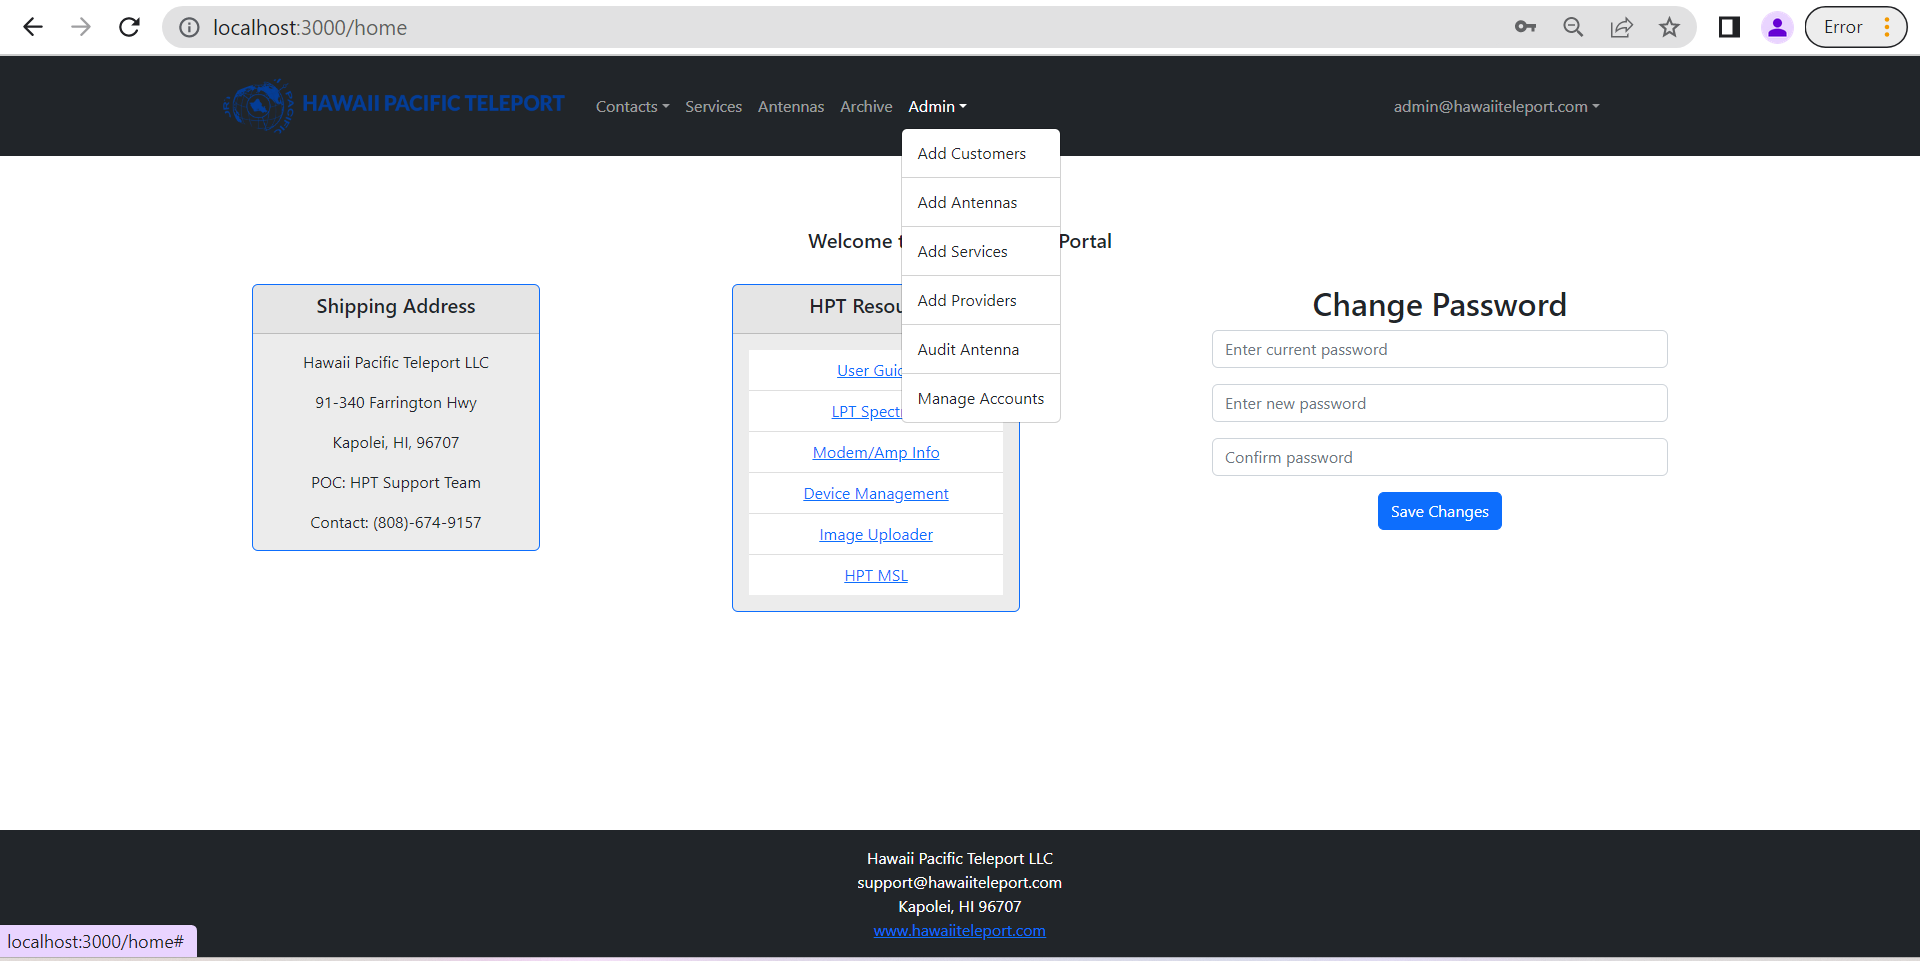
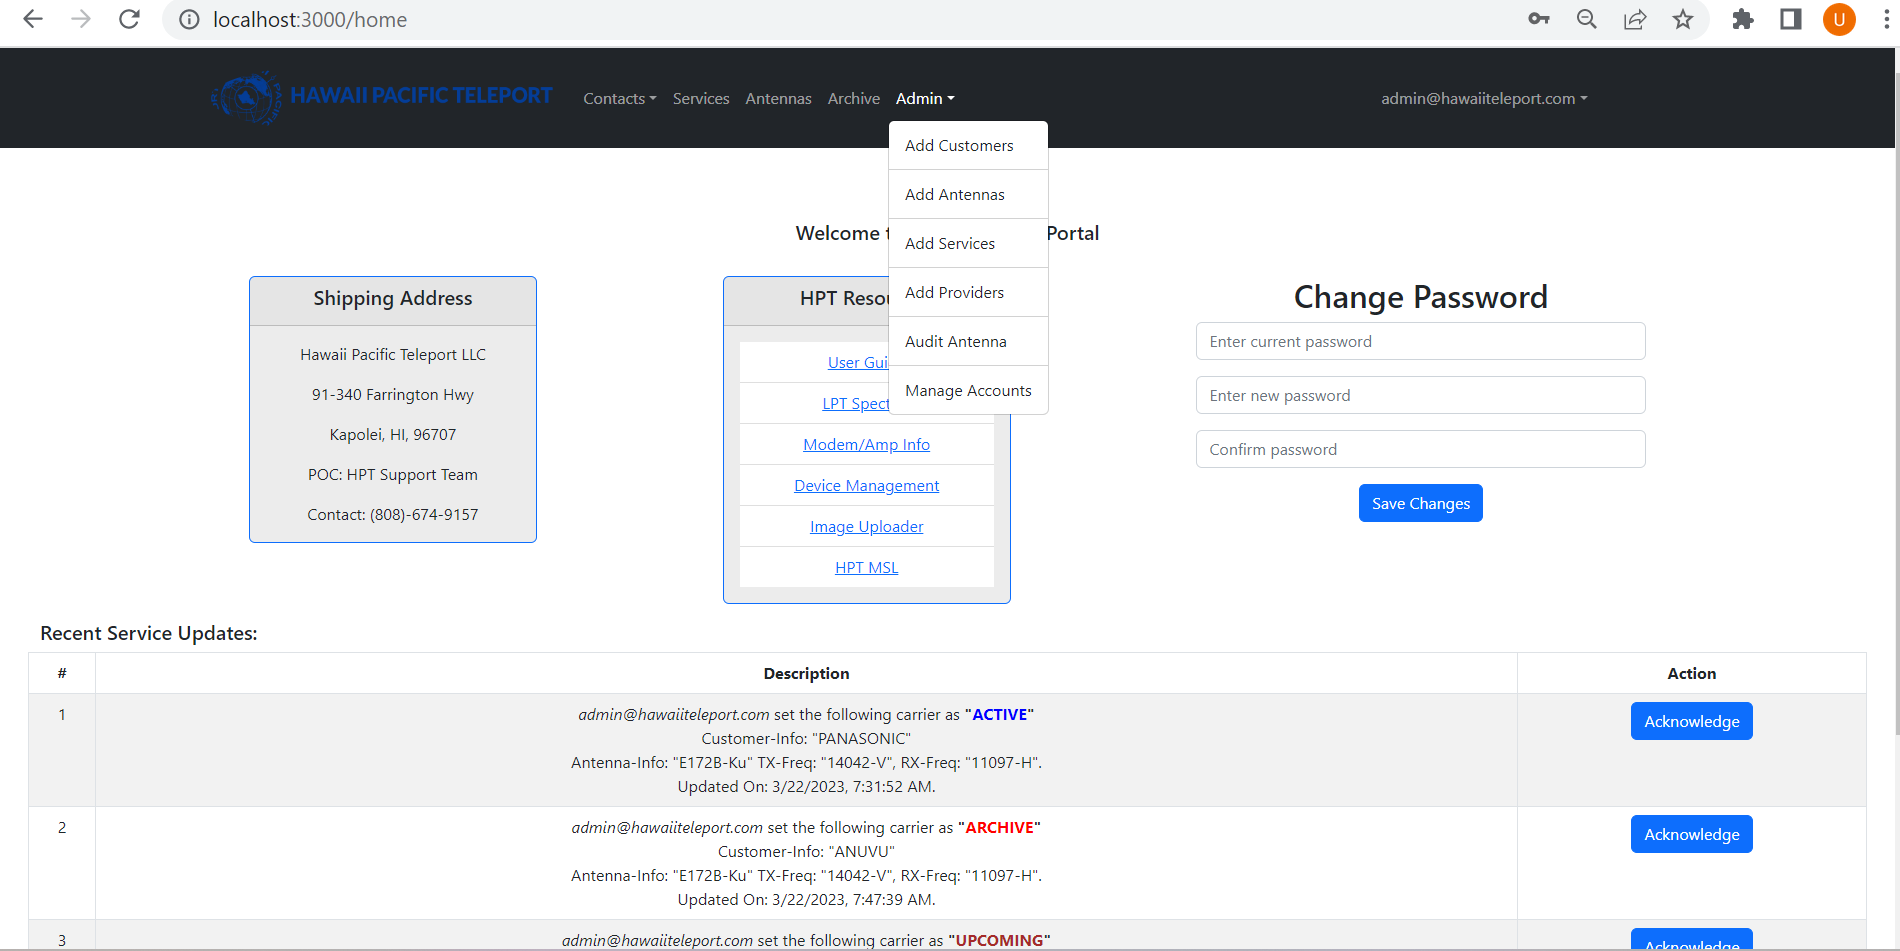
updated user guide, added notification (admin)

diff --git a/index.md b/index.md
@@ -147,6 +147,12 @@ The "Admin" dropdown button on the navigation bar provides access to the functio
 ![screenshot of the Admin page](doc/admindropdown.png)
 
 <br>
+
+Additionally, the admin user is capable of accessing information about recently altered services and the individuals accountable for the modifications. Upon confirmation by the administrator, the service in question will be excluded from the roster of recent updates.
+
+![screenshot of the Admin notification](doc/adminnotifs.png)
+
+<br>
 The "Manage Account" page is accessible only to users with an "Admin" role and allows them to delete/register users. This page is not visible to users with different roles.
 
 ![screenshot of the manage account page](doc/manageaccounts.png)
